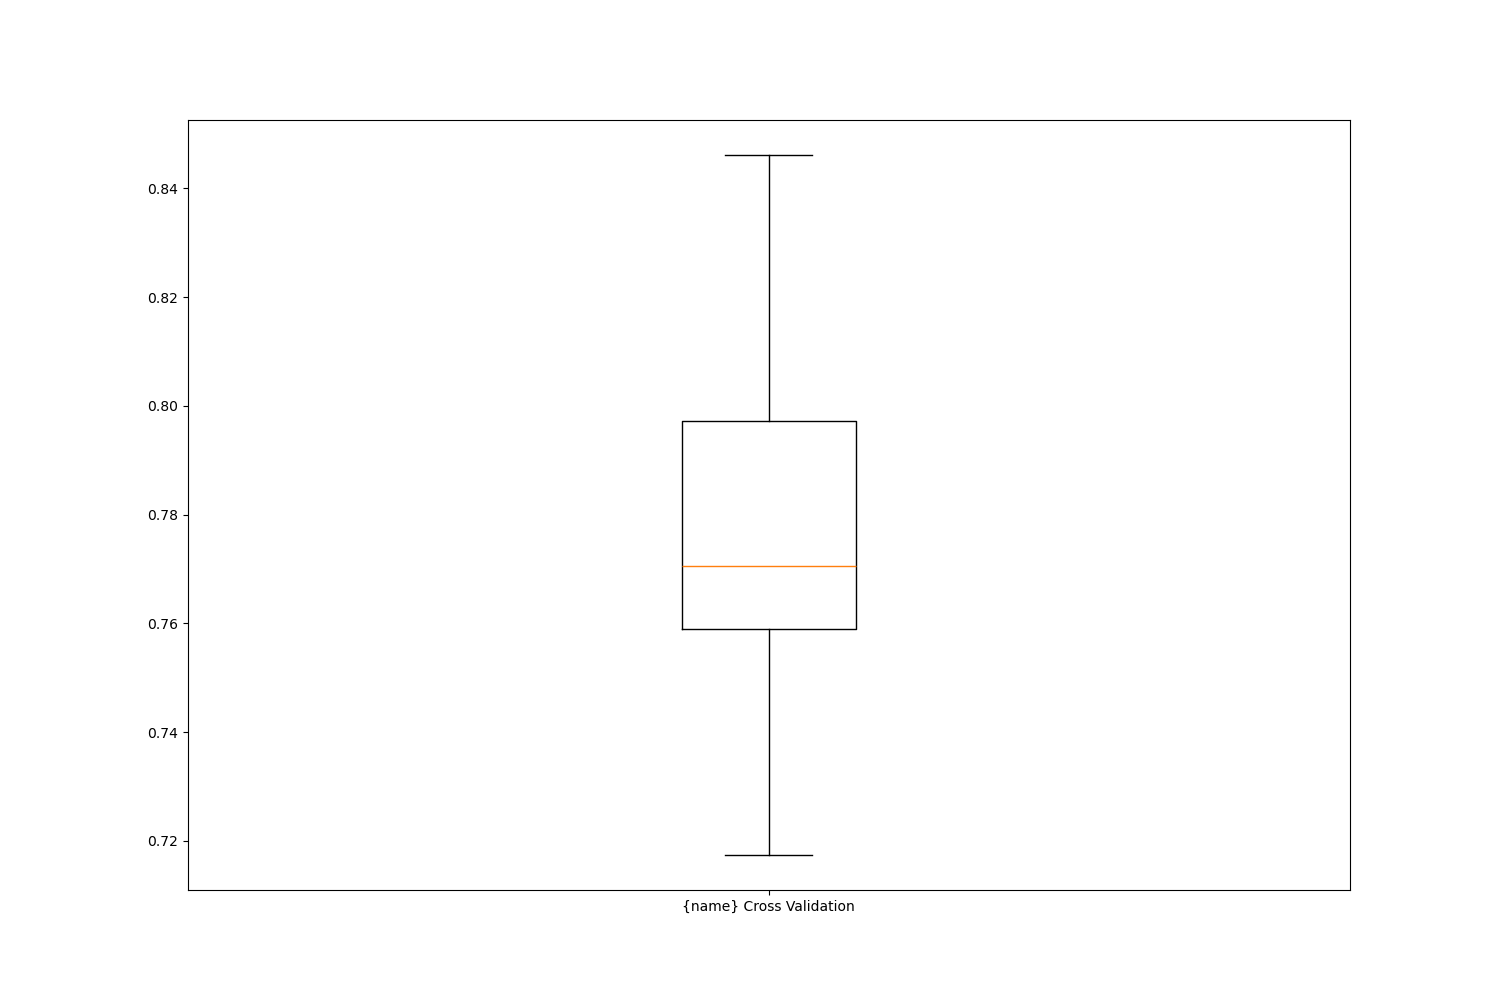
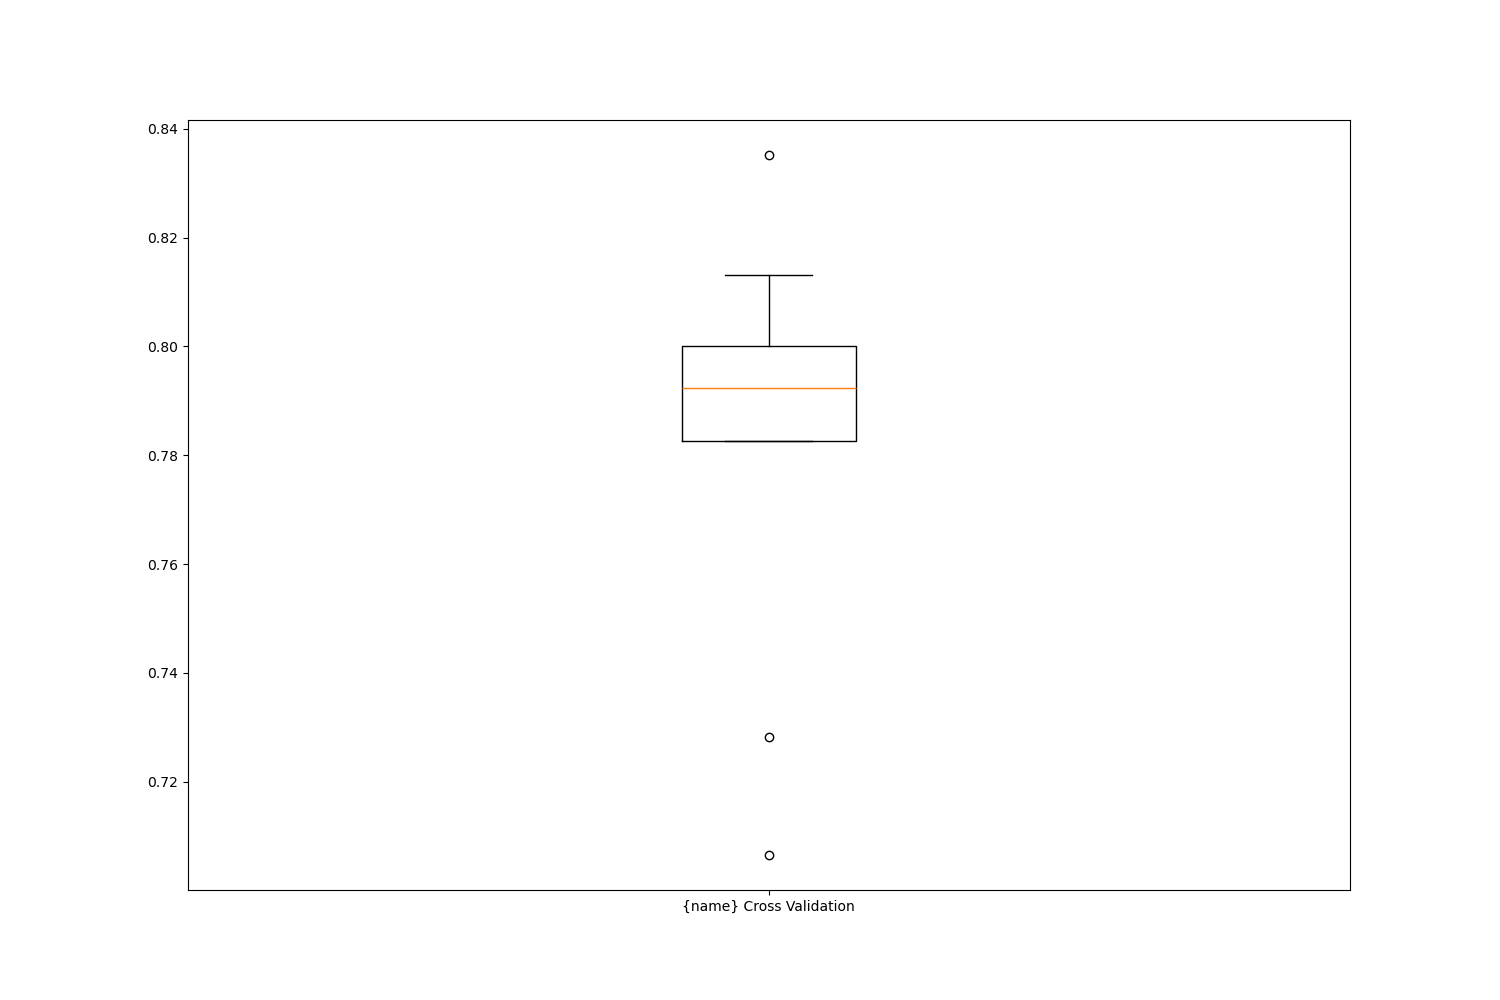
update readme + add grid search method

diff --git a/prediction.py b/prediction.py
@@ -1,8 +1,7 @@
-import os
 import pandas as pd
-import seaborn as sns
 from sklearn.svm import SVC
 from matplotlib import pyplot as plt
+from sklearn.model_selection import GridSearchCV
 from sklearn.metrics import classification_report
 from sklearn.neighbors import KNeighborsClassifier
 from sklearn.ensemble import RandomForestClassifier
@@ -12,7 +11,7 @@ from data_titanic import features_train, target_train, save_plot, features_valid
 
 output_dir = "plots"
 pd.set_option('display.max_columns', None)
-seed = 1
+seed = 44
 
 # ---------------- CROSS VALIDATION FUNCTION ----------------   
 def cross_val(model, name):
@@ -96,3 +95,46 @@ cross_val(knn, "knn")
 cross_val(svc, "svc")
 cross_val(r_forest, "random_forest")
 
+
+# --------------------------- 3) GRID SEARCH CV ----------------------------
+# --------------------------- 3) GRID SEARCH CV ----------------------------
+def OptimizeModel(model, param_grid, kfold, name):
+    grid = GridSearchCV(
+    estimator=model,
+    param_grid=param_grid,
+    scoring="accuracy",
+    cv=kfold,
+    n_jobs=-1,
+    )
+    
+    grid.fit(features_train, target_train)
+
+    best_model = grid.best_estimator_
+    print(f"Best parameters for {name}:", grid.best_params_)
+    print(f"Best accuracy CV for {name}:", best_model)
+    
+    val_score = best_model.score(features_validation, target_validation)
+    print(f"Accuracy of the best {name} model on validation :", val_score)
+    
+# -------- RANDOM FOREST GRID & MODEL ----------
+param_forest = {
+    "n_estimators":    [100, 200],
+    "max_depth":       [4, 6, 8],
+    "min_samples_leaf":[1, 3, 5],
+    "max_features":    ["sqrt", 0.5]
+}
+r_forest_base = RandomForestClassifier()
+
+# -------- SVC GRID ----------
+param_SVC = {
+    "C": [0.1, 1, 10],
+    "gamma": ["scale", "auto", 0.1, 1],
+    "kernel": ["rbf", "poly"],
+}
+
+OptimizeModel(r_forest_base, param_forest, kfold, "random forest")
+OptimizeModel(svc, param_SVC, kfold, "svc")
+
+
+    
+    

diff --git a/data_titanic.py b/data_titanic.py
@@ -4,7 +4,7 @@ import seaborn as sns
 from matplotlib import pyplot as plt
 from sklearn.datasets import fetch_openml
 from sklearn.preprocessing import StandardScaler
-from sklearn.model_selection import cross_val_score, train_test_split
+from sklearn.model_selection import train_test_split
 
 output_dir = "plots"
 pd.set_option('display.max_columns', None)

diff --git a/README.md b/README.md
@@ -1,5 +1,5 @@
 # 🌊 Titanic Survival Predictor
-An end-to-end machine learning project showcasing data exploration, preprocessing, model training and evaluation using the classic Titanic dataset. I implemented and compared three classifiers—K-Nearest Neighbors, Random Forest and Support Vector Machine—to predict passenger survival.
+An end-to-end machine learning project showcasing data exploration, preprocessing, model training and evaluation using the classic Titanic dataset. I implemented and compared three classifiers : K-Nearest Neighbors, Random Forest and Support Vector Machine, to predict passenger survival.
 
 ## 🚀 Features
 
@@ -21,8 +21,7 @@ An end-to-end machine learning project showcasing data exploration, preprocessin
 ## ⚙ Installation & Usage
 1. **Clone the repo**  
    ```bash
-   git clone https://github.com/your-username/titanic-survival-predictor.git
-   cd titanic-survival-predictor
+   git clone https://github.com/eigsi/titanic-predictor.git
     ```
 2. **Install dependencies**
    ```bash
